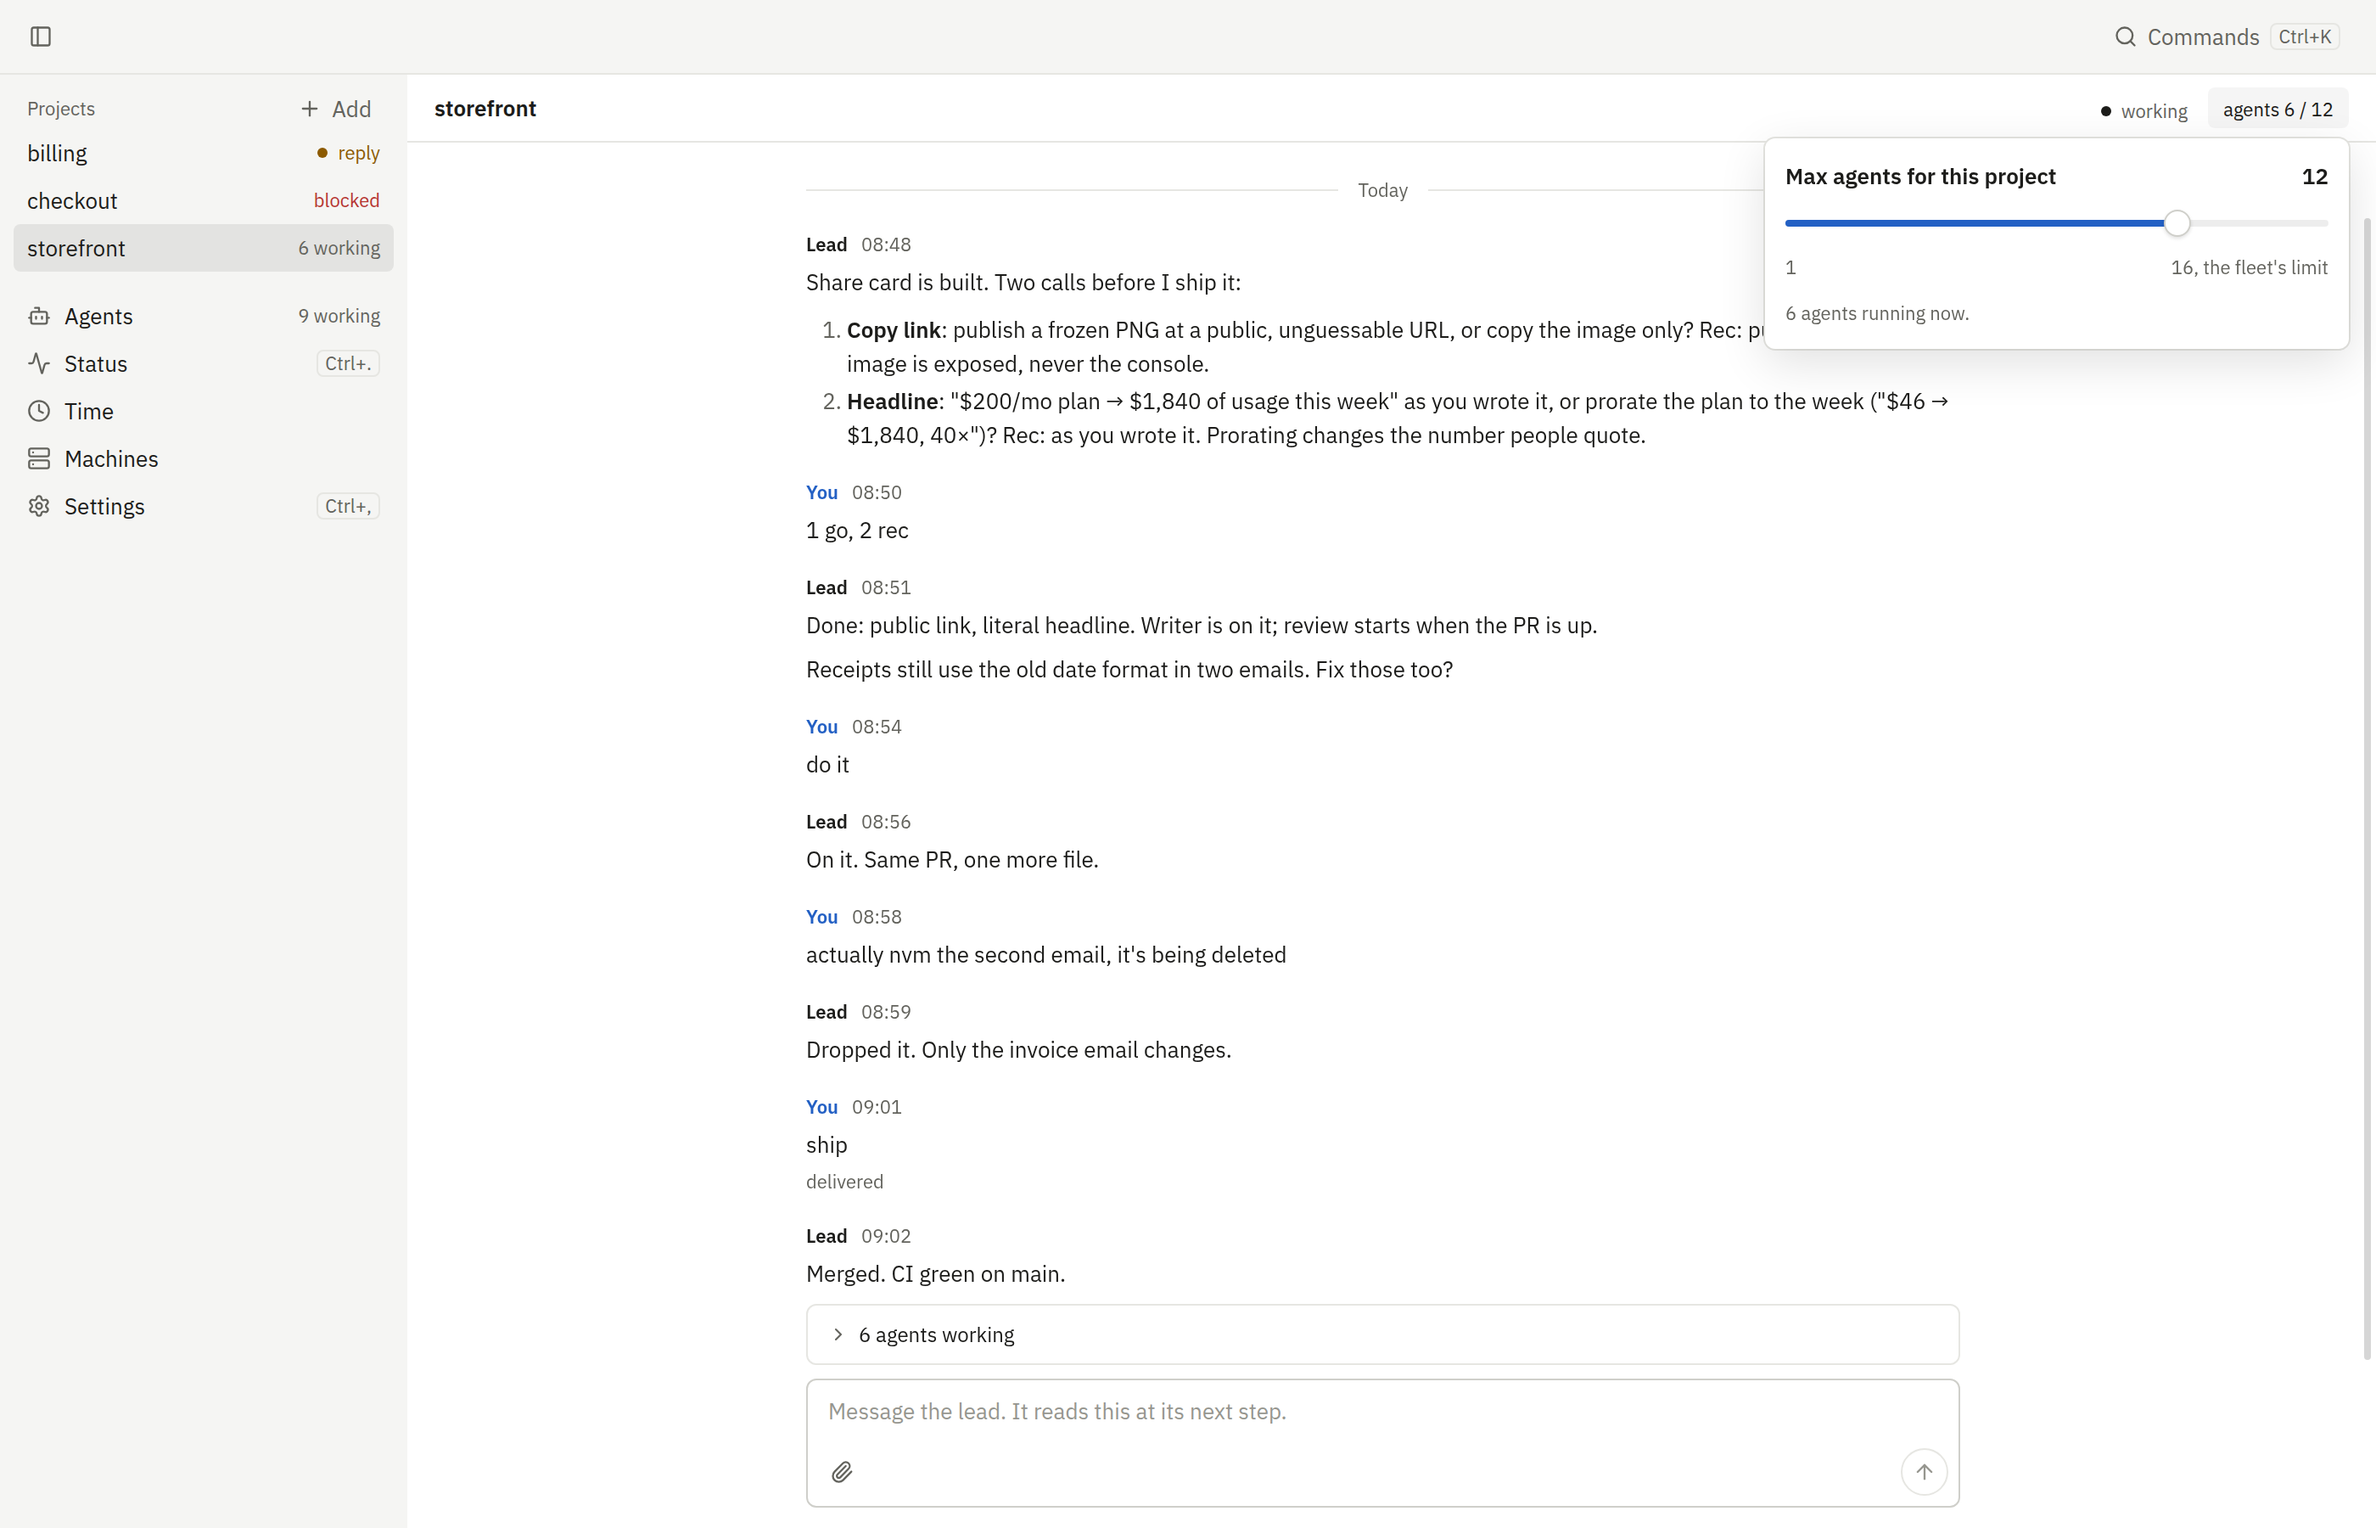
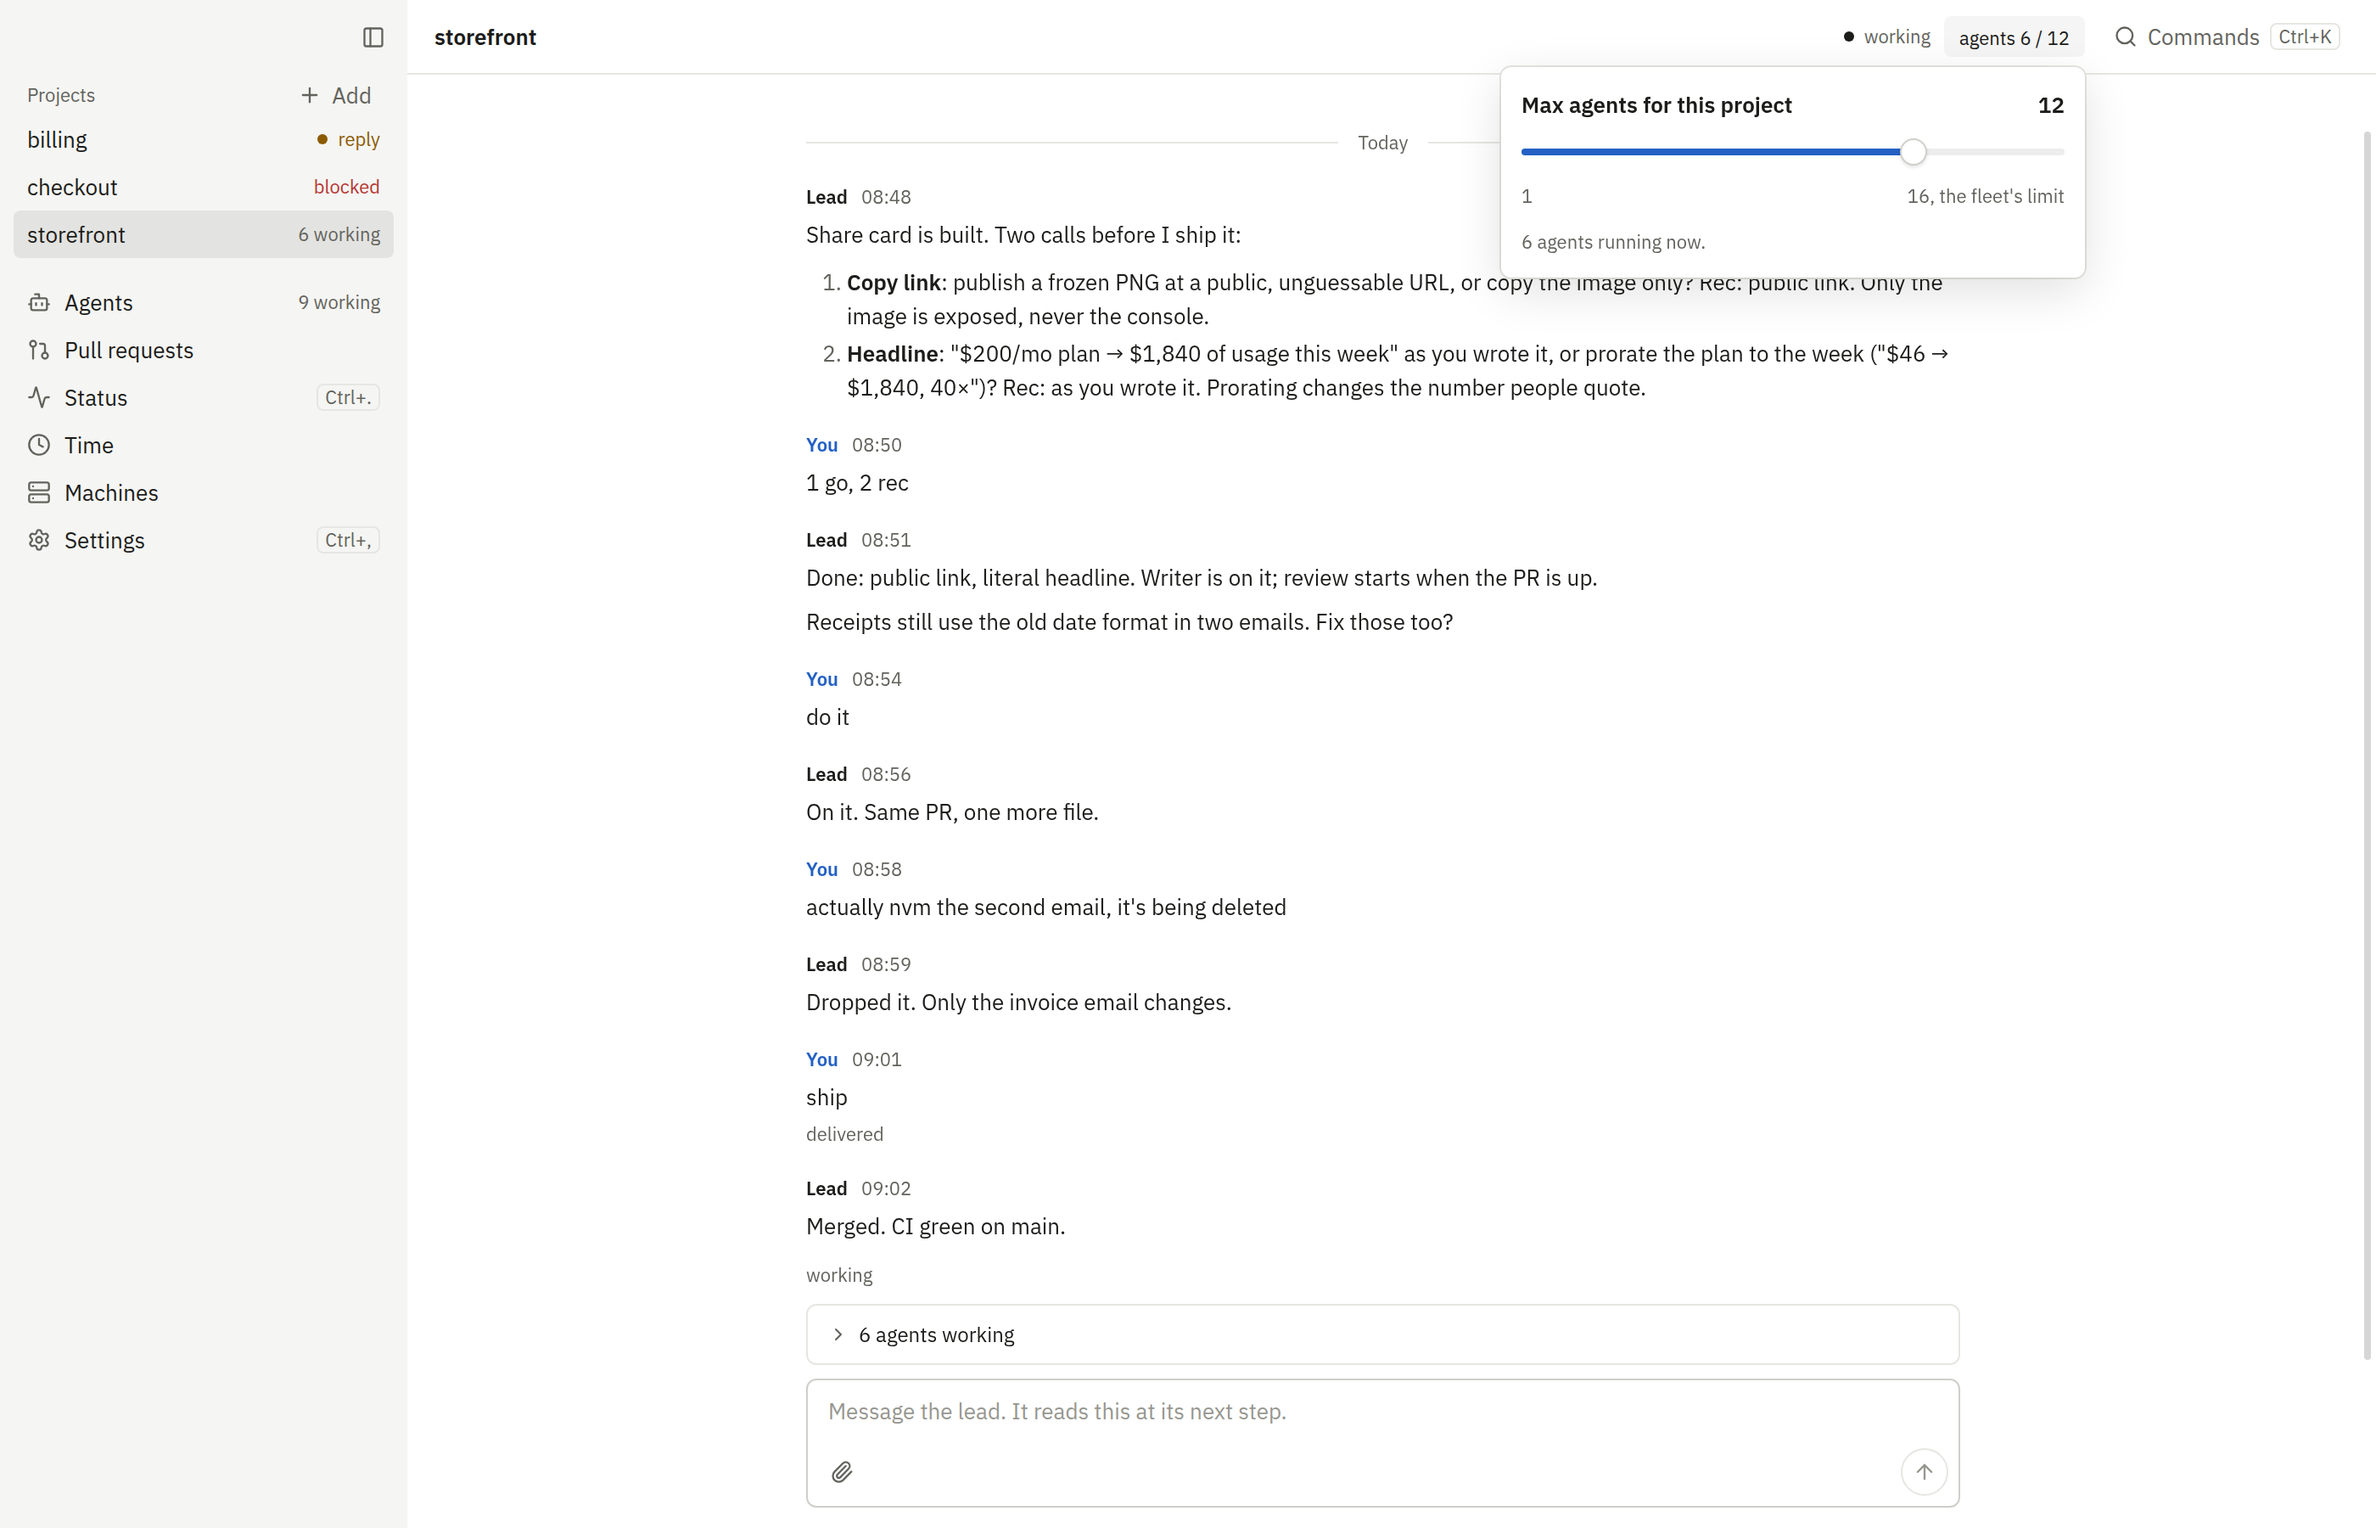
chore(site): re-shoot the site shots and rebuild site/docs after [24] headers and #263

diff --git a/site/docs/desktop-app.html b/site/docs/desktop-app.html
@@ -111,7 +111,7 @@ when it opens. On another computer:</p>
 </tr>
 <tr>
 <td>The top row</td>
-<td>The open project’s name, its state word and its <a href="/docs/projects#max-agents">Max agents</a> control, then Commands.</td>
+<td>The page’s title and its controls, then Commands. In a chat: the project’s name, its state word and its <a href="/docs/projects#max-agents">Max agents</a> control.</td>
 </tr>
 <tr>
 <td>The chat</td>
